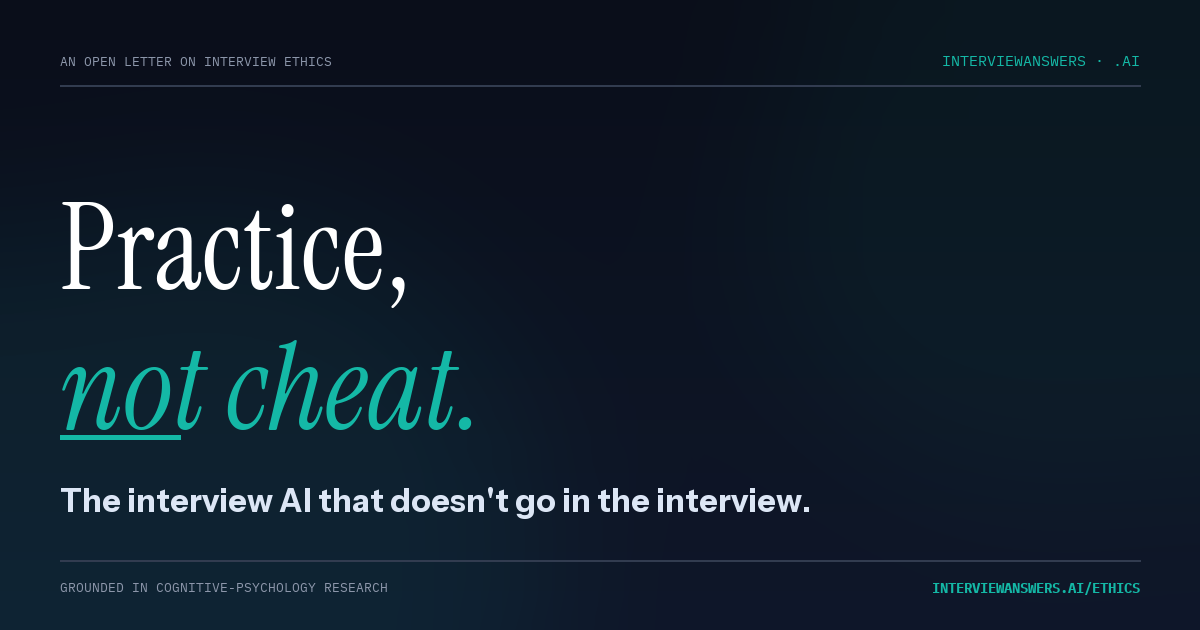
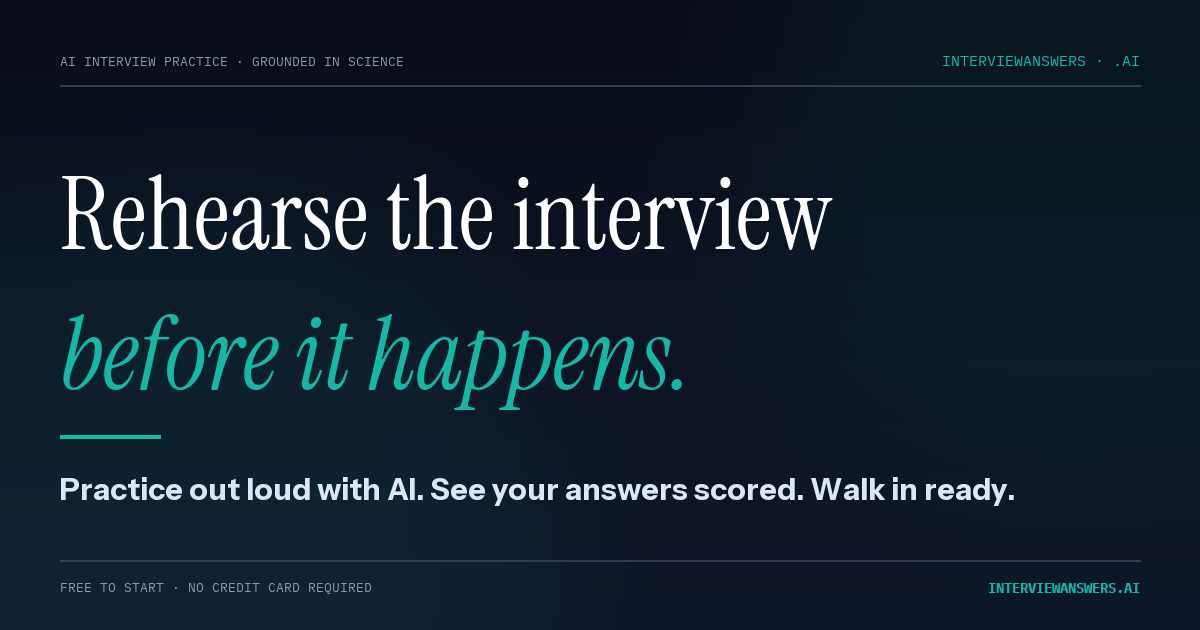
Supervisor follow-ups on rebalance: clean TrustBar + JSON-LD + OG image v2
Three small fixes after Coder's 5-file rebalance pass:

1. TrustBar CBS News badge (Coder flagged): "As featured in CBS News
   coverage of AI interview practice" still read as "we were featured"
   even after softening. Replaced with "Open ethics statement" + FileText
   icon, linking directly to /ethics. This is honest (we DO have an open
   ethics statement), drives traffic to the differentiation story below
   the fold, and eliminates the ambiguity entirely. Deleted the CBS_NEWS_URL
   constant (no longer referenced — the fraud reporting is still cited on
   /ethics where that argument belongs).

2. JSON-LD WebSite schema description (Coder flagged): "Practice, not
   cheat." was still in the rich-snippet metadata. Replaced with
   "Rehearsal-first, grounded in cognitive-psychology research." Matches
   the new positive positioning across all social and search surfaces.

3. og-image.png regenerated to v2: "Rehearse the interview / before it
   happens." + "Practice out loud with AI. See your answers scored. Walk
   in ready." + "Free to start · No credit card required" footer. Old
   card had the "not cheat" strikethrough hero.

Build exits 0. All 5 of Coder's commits preserved as-is.

diff --git a/src/Components/Landing/TrustBar.jsx b/src/Components/Landing/TrustBar.jsx
@@ -1,12 +1,10 @@
 import { Link } from 'react-router-dom';
 import { motion } from 'framer-motion';
-import { HeartPulse, Award, BrainCircuit, Lock } from 'lucide-react';
+import { HeartPulse, FileText, BrainCircuit, Lock } from 'lucide-react';
 
-// CBS News reported on AI-assisted interview fraud — we cite their reporting on /ethics.
-// Note: we are NOT "featured in" CBS News; we cite it as third-party validation of the
-// problem we built the rebrand around. Phrase carefully (defamation/accuracy posture).
-const CBS_NEWS_URL = 'https://www.cbsnews.com/news/ai-interview-cheating-job-candidates-chatgpt-employers/';
-
+// TrustBar: pure pro-Y credibility signals. No anti-X framing above the fold
+// (research: 8 of 9 comparable ethical-positioning brands use 0% anti-X above
+// the fold; see docs/SPRINT_3_PLAN.md).
 const items = [
   {
     icon: HeartPulse,
@@ -20,10 +18,10 @@ const items = [
     external: false,
   },
   {
-    icon: Award,
-    label: 'As featured in CBS News coverage of AI interview practice',
-    href: CBS_NEWS_URL,
-    external: true,
+    icon: FileText,
+    label: 'Open ethics statement',
+    href: '/ethics',
+    external: false,
   },
   {
     icon: Lock,

diff --git a/index.html b/index.html
@@ -154,7 +154,7 @@
       "@type": "WebSite",
       "name": "InterviewAnswers.ai",
       "url": "https://www.interviewanswers.ai",
-      "description": "AI-powered interview preparation with mock interviews, STAR method coaching, and instant feedback. Practice, not cheat."
+      "description": "AI-powered interview preparation with mock interviews, STAR method coaching, and instant feedback. Rehearsal-first, grounded in cognitive-psychology research."
     }
     </script>
 
